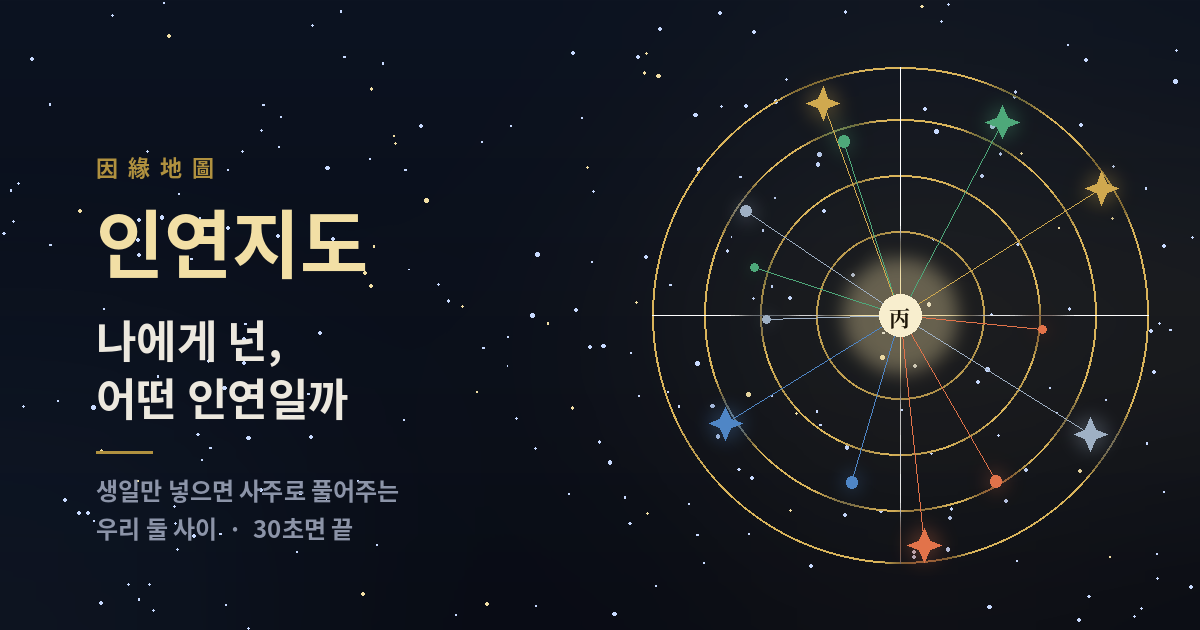
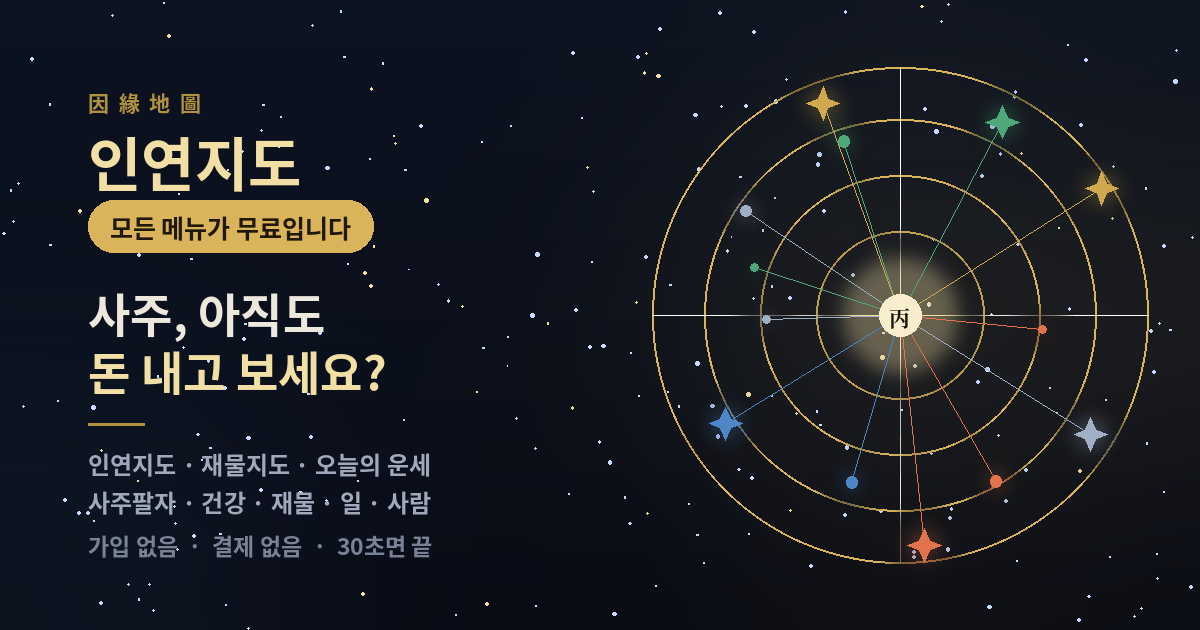
상단 칩 메뉴 → 본문 별자리 메뉴 · 사주는 인연지도에서 한 번만 · 썸네일에 무료 홍보

Changed region(s): [[0.0617, 0.2111, 0.37, 0.9048], [0.0617, 0.1508, 0.185, 0.181]]

diff --git a/app.html b/app.html
@@ -65,10 +65,22 @@ header{position:sticky;top:0;z-index:40;
   color:#5f5849;background:#fff;transition:.15s;white-space:nowrap}
 .ghost:hover{color:var(--gold2);border-color:rgba(193,154,46,.55)}
 
-/* 상단 고정 메뉴 */
-.nav{position:relative;max-width:540px;margin:0 auto;padding:0 22px 11px;display:flex;gap:7px;
-  overflow-x:auto;-webkit-overflow-scrolling:touch;scrollbar-width:none}
-.nav::-webkit-scrollbar{display:none}
+/* 별자리 메뉴 */
+.navsky{max-width:540px;margin:0 auto;padding:14px 20px 2px;position:relative}
+.navsky::before{content:'';position:absolute;inset:0;pointer-events:none;
+  background:radial-gradient(58% 68% at 50% 38%,rgba(217,180,91,.13),transparent 70%)}
+.navsky svg{display:block;width:100%;height:auto;overflow:visible;position:relative}
+.nvsline{stroke:rgba(193,154,46,.32);stroke-width:1}
+.nvsdot{fill:#c9a227;transition:fill .18s,r .2s var(--spring)}
+.nvst{font-size:11.5px;font-weight:600;letter-spacing:-.035em;fill:#6b6455;transition:fill .18s}
+.nvsa{cursor:pointer}
+.nvsa:hover .nvsdot{fill:#e0b93f}
+.nvsa:hover .nvst{fill:#a07c1c}
+.nvsa:active .nvsdot{fill:#8a6a10}
+.nvsa.on .nvsdot{fill:#a07c1c}
+.nvsa.on .nvst{fill:#8a6a10;font-weight:800}
+.nvsring{fill:none;stroke:rgba(193,154,46,.55);stroke-width:1.3}
+.nvshit{fill:transparent}
 /* 상단 내 사주 + 방문 통계 */
 .subbar{border-bottom:1px solid rgba(150,120,40,.13);background:linear-gradient(180deg,rgba(255,253,247,.9),rgba(251,247,236,.6))}
 .sbin{max-width:540px;margin:0 auto;padding:8px 22px;display:flex;align-items:center;gap:10px}
@@ -358,12 +370,12 @@ footer{margin-top:56px;padding-top:22px;border-top:1px solid var(--line);color:v
     <div class="sp"></div>
     <button class="ghost" id="navBtn" hidden>내 지도</button>
   </div>
-  <nav class="nav" id="nav" aria-label="주요 메뉴"></nav>
 </header>
 <div class="subbar"><div class="sbin">
-  <button class="biochip" id="bioBtn" type="button"></button>
+  <button class="biochip" id="bioBtn" type="button" hidden></button>
   <div class="hstat" id="hstat"><span>오늘 <b>—</b></span><span>누적 <b>—</b></span></div>
 </div></div>
+<div class="navsky" id="navsky" aria-label="주요 메뉴"></div>
 
 <main class="wrap" id="app"></main>
 <div class="dock" id="dock"><div class="in"></div></div>
@@ -2058,25 +2070,44 @@ function goMyMap(){
 function menuHref(k){
   return k==='today'?'/today':k==='saju'?'/saju':k==='life'?'/life':k==='about'?'/about':k==='profile'?'/my':k==='wealth'?'/wealth':'#';
 }
+/* 본문 상단 별자리 메뉴 — 여덟 개 별을 눌러 이동한다 */
+var NAVSKY=[
+  {k:'map',     t:'내 인연지도', x: 62, y: 46, r:6.2},
+  {k:'wealth',  t:'재물지도',   x:182, y: 30, r:6.2},
+  {k:'today',   t:'오늘의 운세', x:300, y: 56, r:6.2},
+  {k:'saju',    t:'사주팔자',   x:110, y:108, r:4.8},
+  {k:'life',    t:'분야별 풀이', x:240, y:106, r:4.8},
+  {k:'profile', t:'내 사주',    x:174, y:146, r:3.9},
+  {k:'about',   t:'계산 방법',  x:306, y:136, r:3.9},
+  {k:'home',    t:'홈',        x: 38, y:140, r:3.9}
+];
+var NAVLINE=[[0,1],[1,2],[0,3],[3,5],[5,4],[4,1],[4,6],[7,3],[2,6]];
 function buildNav(){
-  var nav=el('nav');if(!nav)return;
+  var box=el('navsky');if(!box)return;
   var cur=BOOT.view||'home';
   if(cur==='map'){ var mn=store('inbokdo_mine')||{}; if(!mn[BOOT.code])cur=''; }
   if(cur==='room'||cur==='wealthNew')cur='wealth';
-  nav.innerHTML='<a class="nv'+(cur==='home'?' on':'')+'" href="/"><span class="i">★</span>홈</a>'+
-    MENU.map(function(m){
-      return '<a class="nv'+(cur===m.k?' on':'')+'" href="'+menuHref(m.k)+'" data-mk="'+m.k+'">'+
-        '<span class="i" style="color:'+m.c+'">'+m.ic+'</span>'+esc(m.t)+'</a>';
-    }).join('');
-  nav.addEventListener('click',function(e){
-    var a=e.target.closest('[data-mk]');if(!a)return;
-    if(a.dataset.mk==='map'){e.preventDefault();tap();goMyMap();}
+
+  var P={};NAVSKY.forEach(function(n){P[n.k]=n;});
+  var g='<svg viewBox="0 0 360 176" role="navigation" aria-label="주요 메뉴">';
+  NAVLINE.forEach(function(L){
+    var a=NAVSKY[L[0]],b=NAVSKY[L[1]];
+    g+='<line class="nvsline" x1="'+a.x+'" y1="'+a.y+'" x2="'+b.x+'" y2="'+b.y+'"/>';
   });
-  var on=nav.querySelector('.nv.on');
-  if(on){
-    var d=on.getBoundingClientRect().left-nav.getBoundingClientRect().left+nav.scrollLeft;
-    if(d>90)nav.scrollLeft=d-70;
-  }
+  NAVSKY.forEach(function(n){
+    var on=(cur===n.k);
+    g+='<a class="nvsa'+(on?' on':'')+'" href="'+(n.k==='home'?'/':menuHref(n.k))+'" data-mk="'+n.k+'">'+
+      (on?'<circle class="nvsring" cx="'+n.x+'" cy="'+n.y+'" r="'+(n.r+4.5)+'"/>':'')+
+      '<circle class="nvsdot" cx="'+n.x+'" cy="'+n.y+'" r="'+n.r+'"/>'+
+      '<text class="nvst" x="'+n.x+'" y="'+(n.y+16)+'" text-anchor="middle">'+esc(n.t)+'</text>'+
+      '<circle class="nvshit" cx="'+n.x+'" cy="'+(n.y+5)+'" r="29"/></a>';
+  });
+  g+='</svg>';
+  box.innerHTML=g;
+  box.addEventListener('click',function(e){
+    var a=e.target.closest('[data-mk]');if(!a)return;
+    if(a.getAttribute('data-mk')==='map'){e.preventDefault();tap();goMyMap();}
+  });
 }
 function openMenu(){}
 function closeMenu(){}
@@ -2093,12 +2124,8 @@ function birthText(b){
 function paintBio(){
   var el2=el('bioBtn');if(!el2)return;
   var b=getBirth();
-  if(!b||!b.birth){
-    el2.className='biochip empty';
-    el2.innerHTML='＋ 내 사주 등록 (한 번만)';
-    el2.onclick=function(){tap();viewProfile();history.pushState({},'','/my');};
-    return;
-  }
+  if(!b||!b.birth){ el2.hidden=true; return; }
+  el2.hidden=false;
   el2.className='biochip';
   var c=b.charKey?charBy(b.charKey):null;
   el2.innerHTML='<span class="bh" style="background:'+((c&&c.color)||'#c19a2e')+'1f;color:'+((c&&c.color)||'#a07c1c')+'">'+
@@ -2122,12 +2149,15 @@ function viewProfile(){
   app.innerHTML='';
   var head='<section class="fade" style="padding-top:30px">'+
     '<div class="eyebrow">내 사주</div>'+
-    '<h1 style="font-size:30px">'+(b&&b.birth?'등록되어 있습니다':'한 번만<br>넣으면 끝입니다')+'</h1>'+
+    '<h1 style="font-size:30px">'+(b&&b.birth?'등록되어 있습니다':'아직 넣은<br>생년월일이 없어요')+'</h1>'+
     '<p class="lead" style="font-size:15px">'+
       (b&&b.birth
         ? '이 생년월일로 <b>오늘의 운세 · 내 사주팔자 · 분야별 풀이</b>가 바로 열립니다. 이 기기에만 저장되고 서버에는 남기지 않습니다.'
-        : '한 번 넣어두면 <b>오늘의 운세 · 내 사주팔자 · 분야별 풀이</b>를 매번 다시 입력하지 않아도 됩니다. 이 기기에만 저장되고 서버에는 남기지 않습니다.')+
+        : '따로 등록할 필요 없습니다. <b class="gold">인연지도를 만들 때 넣은 생년월일</b>이 그대로 여기에 저장돼서, '+
+          '그 뒤로는 오늘의 운세도 사주팔자도 다시 입력하지 않아도 됩니다.')+
     '</p>'+
+    (b&&b.birth?'':'<button class="btn" id="gomap" style="margin-top:24px">내 인연지도 만들기</button>'+
+      '<p class="tiny center" style="margin-top:10px">30초면 끝나요 · 가입 없음 · 무료</p>')+
   '</section>';
   var body='';
   if(b&&b.birth){
@@ -2145,9 +2175,15 @@ function viewProfile(){
       '<button class="btn sec2" id="del" style="margin-top:9px">이 기기에서 지우기</button>'+
     '</section>';
   }
-  body+='<section class="sec '+(b&&b.birth?'rv':'fade')+'" id="formSec"'+(b&&b.birth?' hidden':'')+'>'+
-    (b&&b.birth?'<h2>생년월일 바꾸기</h2>':'')+
-    '<div class="card" id="fw">'+formHTML({cta:b&&b.birth?'바꾸기':'등록하고 시작하기'})+'</div>'+
+  if(!(b&&b.birth)){
+    body+='<section class="sec fade" style="margin-top:26px">'+
+      '<button class="btn sec2" id="openForm">지도 없이 생년월일만 넣기</button>'+
+      '<p class="tiny center" style="margin-top:9px">오늘의 운세만 보고 싶을 때 쓰세요.</p>'+
+    '</section>';
+  }
+  body+='<section class="sec '+(b&&b.birth?'rv':'fade')+'" id="formSec" hidden>'+
+    '<h2>'+(b&&b.birth?'생년월일 바꾸기':'생년월일 넣기')+'</h2>'+
+    '<div class="card" id="fw">'+formHTML({cta:b&&b.birth?'바꾸기':'저장하고 오늘의 운세 보기'})+'</div>'+
   '</section>';
   app.appendChild(h(head+body+
     '<footer>생년월일은 이 브라우저에만 저장됩니다. 지도에 참여할 때를 빼면 서버로 보내지 않습니다.</footer>'));
@@ -2163,6 +2199,12 @@ function viewProfile(){
     }).catch(function(){ var box=el('pcard'); if(box)box.innerHTML='<div class="tiny">사주를 불러오지 못했습니다.</div>'; });
     el('chg').onclick=function(){tap();var f=el('formSec');f.hidden=false;f.scrollIntoView({behavior:'smooth',block:'center'});};
     el('del').onclick=function(){tap();clearBirth();paintBio();viewProfile();};
+  }else{
+    var gm=el('gomap');if(gm)gm.onclick=function(){tap();location.href='/';};
+    var of=el('openForm');if(of)of.onclick=function(){
+      tap();var f=el('formSec');f.hidden=false;f.scrollIntoView({behavior:'smooth',block:'center'});
+      setTimeout(function(){var n=f.querySelector('#fName');if(n)n.focus();},420);
+    };
   }
   bindForm(el('fw'),function(data,done){
     saveBirth(data.name,data.birth);paintBio();
@@ -2218,7 +2260,7 @@ function fortunePage(view){
   if(!b||!b.birth) return askBirth({
     eyebrow:view==='today'?'오늘의 운세':view==='saju'?'내 사주팔자':'분야별 풀이',
     title:'먼저 생년월일을<br>알려주세요',
-    lead:'한 번만 넣으면 이 기기에 저장돼서 다음부터는 바로 보입니다. 서버에 따로 저장하지 않습니다.',
+    lead:'한 번만 넣으면 이 기기에 저장돼서 <b>모든 메뉴가 그대로 열립니다.</b> 인연지도를 만들 때 넣으셨다면 이 화면은 다시 안 나옵니다. 서버에 따로 저장하지 않습니다.',
     cta:'보기',
     done:function(){fortunePage(view);}
   });

diff --git a/index.js b/index.js
@@ -678,12 +678,12 @@ export default {
       });
     }
     const PAGES = {
-      '/today': { view: 'today', title: '오늘의 운세 · 인연지도', desc: '오늘 일진과 내 사주를 견줘 오늘 하루의 결을 풀어드립니다.' },
-      '/saju': { view: 'saju', title: '내 사주팔자 · 인연지도', desc: '생년월일시를 여덟 글자로 세우고 오행 분포까지 보여드립니다.' },
-      '/life': { view: 'life', title: '분야별 풀이 · 인연지도', desc: '건강·재물·일·사람. 내 원국을 네 갈래로 나눠 풀어드립니다.' },
+      '/today': { view: 'today', title: '오늘의 운세 · 인연지도', desc: '오늘 일진과 내 사주를 견줘 오늘 하루의 결을 풀어드립니다. 무료입니다.' },
+      '/saju': { view: 'saju', title: '내 사주팔자 · 인연지도', desc: '생년월일시를 여덟 글자로 세우고 오행 분포까지 보여드립니다. 무료입니다.' },
+      '/life': { view: 'life', title: '분야별 풀이 · 인연지도', desc: '건강·재물·일·사람. 내 원국을 네 갈래로 나눠 풀어드립니다. 무료입니다.' },
       '/about': { view: 'about', title: '어떻게 계산하나요 · 인연지도', desc: '인연지도가 쓰는 명리학 방법과 천문 계산을 그대로 공개합니다.' },
       '/my': { view: 'profile', title: '내 사주 · 인연지도', desc: '생년월일을 한 번만 넣으면 오늘의 운세·사주팔자·분야별 풀이가 바로 열립니다.' },
-      '/wealth': { view: 'wealthNew', title: '재물지도 · 인연지도', desc: '단톡방 사람들의 재물 사주를 한 장의 지도에 모읍니다. 가운데가 財, 안쪽에 있을수록 재물 그릇이 큰 사람입니다.' },
+      '/wealth': { view: 'wealthNew', title: '재물지도 · 인연지도', desc: '단톡방 사람들의 재물 사주를 한 장의 지도에 모읍니다. 가운데가 財, 안쪽에 있을수록 재물 그릇이 큰 사람입니다. 무료입니다.' },
     };
     if (PAGES[url.pathname]) {
       const pg = PAGES[url.pathname];
@@ -729,7 +729,7 @@ export default {
       const providers = enabledProviders(env);
       const title = ownerName ? `${ownerName}님의 인연지도 · 나에게 넌, 어떤 인연일까` : '인연지도';
       const desc = ownerName
-        ? `생일만 넣으면 ${ownerName}님과 나 사이에 오가는 기운을 사주로 풀어드립니다. 30초면 끝납니다.`
+        ? `생일만 넣으면 ${ownerName}님과 나 사이에 오가는 기운을 사주로 풀어드립니다. 가입도 결제도 없이 30초면 끝납니다.`
         : '내 사람 별자리를 그려보세요.';
       if (env.DB) ctx.waitUntil(bumpStats(env));
       return new Response(renderPage({ title, desc, url: `${origin}/m/${code}`, origin, boot: { view: 'map', code, ownerName, kakaoKey: env.KAKAO_JS_KEY || '', providers }, noindex: true }), {
@@ -751,7 +751,7 @@ export default {
       const providers = enabledProviders(env);
       const title = title2 ? `${title2} · 재물지도` : '재물지도 · 인연지도';
       const desc = title2
-        ? `생일만 넣으면 내 재물 사주가 이 지도에 찍힙니다. 가운데가 財, 안쪽에 있을수록 재물 그릇이 큰 사람입니다.`
+        ? `생일만 넣으면 내 재물 사주가 이 지도에 찍힙니다. 가운데가 財, 안쪽에 있을수록 재물 그릇이 큰 사람입니다. 무료입니다.`
         : '단톡방 사람들의 재물 사주를 한 장의 지도에 모읍니다.';
       if (env.DB) ctx.waitUntil(bumpStats(env));
       return new Response(renderPage({
@@ -765,7 +765,7 @@ export default {
       if (env.DB) ctx.waitUntil(bumpStats(env));
       return new Response(renderPage({
         title: '인연지도 · 나에게 넌, 어떤 인연일까',
-        desc: '생일만 넣으면 두 사람 사이에 오가는 기운을 사주로 풀어 별자리처럼 그려드립니다. 링크 하나로 친구들을 모아보세요. 30초면 끝납니다.',
+        desc: '사주팔자·오늘의 운세·인연지도·재물지도, 모든 메뉴가 무료입니다. 생일만 넣으면 두 사람 사이에 오가는 기운을 별자리처럼 그려드립니다. 가입도 결제도 없이 30초면 끝납니다.',
         url: origin, origin, boot: { view: 'home', kakaoKey: env.KAKAO_JS_KEY || '', providers: enabledProviders(env) },
       }), { headers: { 'content-type': 'text/html; charset=utf-8', 'cache-control': 'no-store' } });
     }
